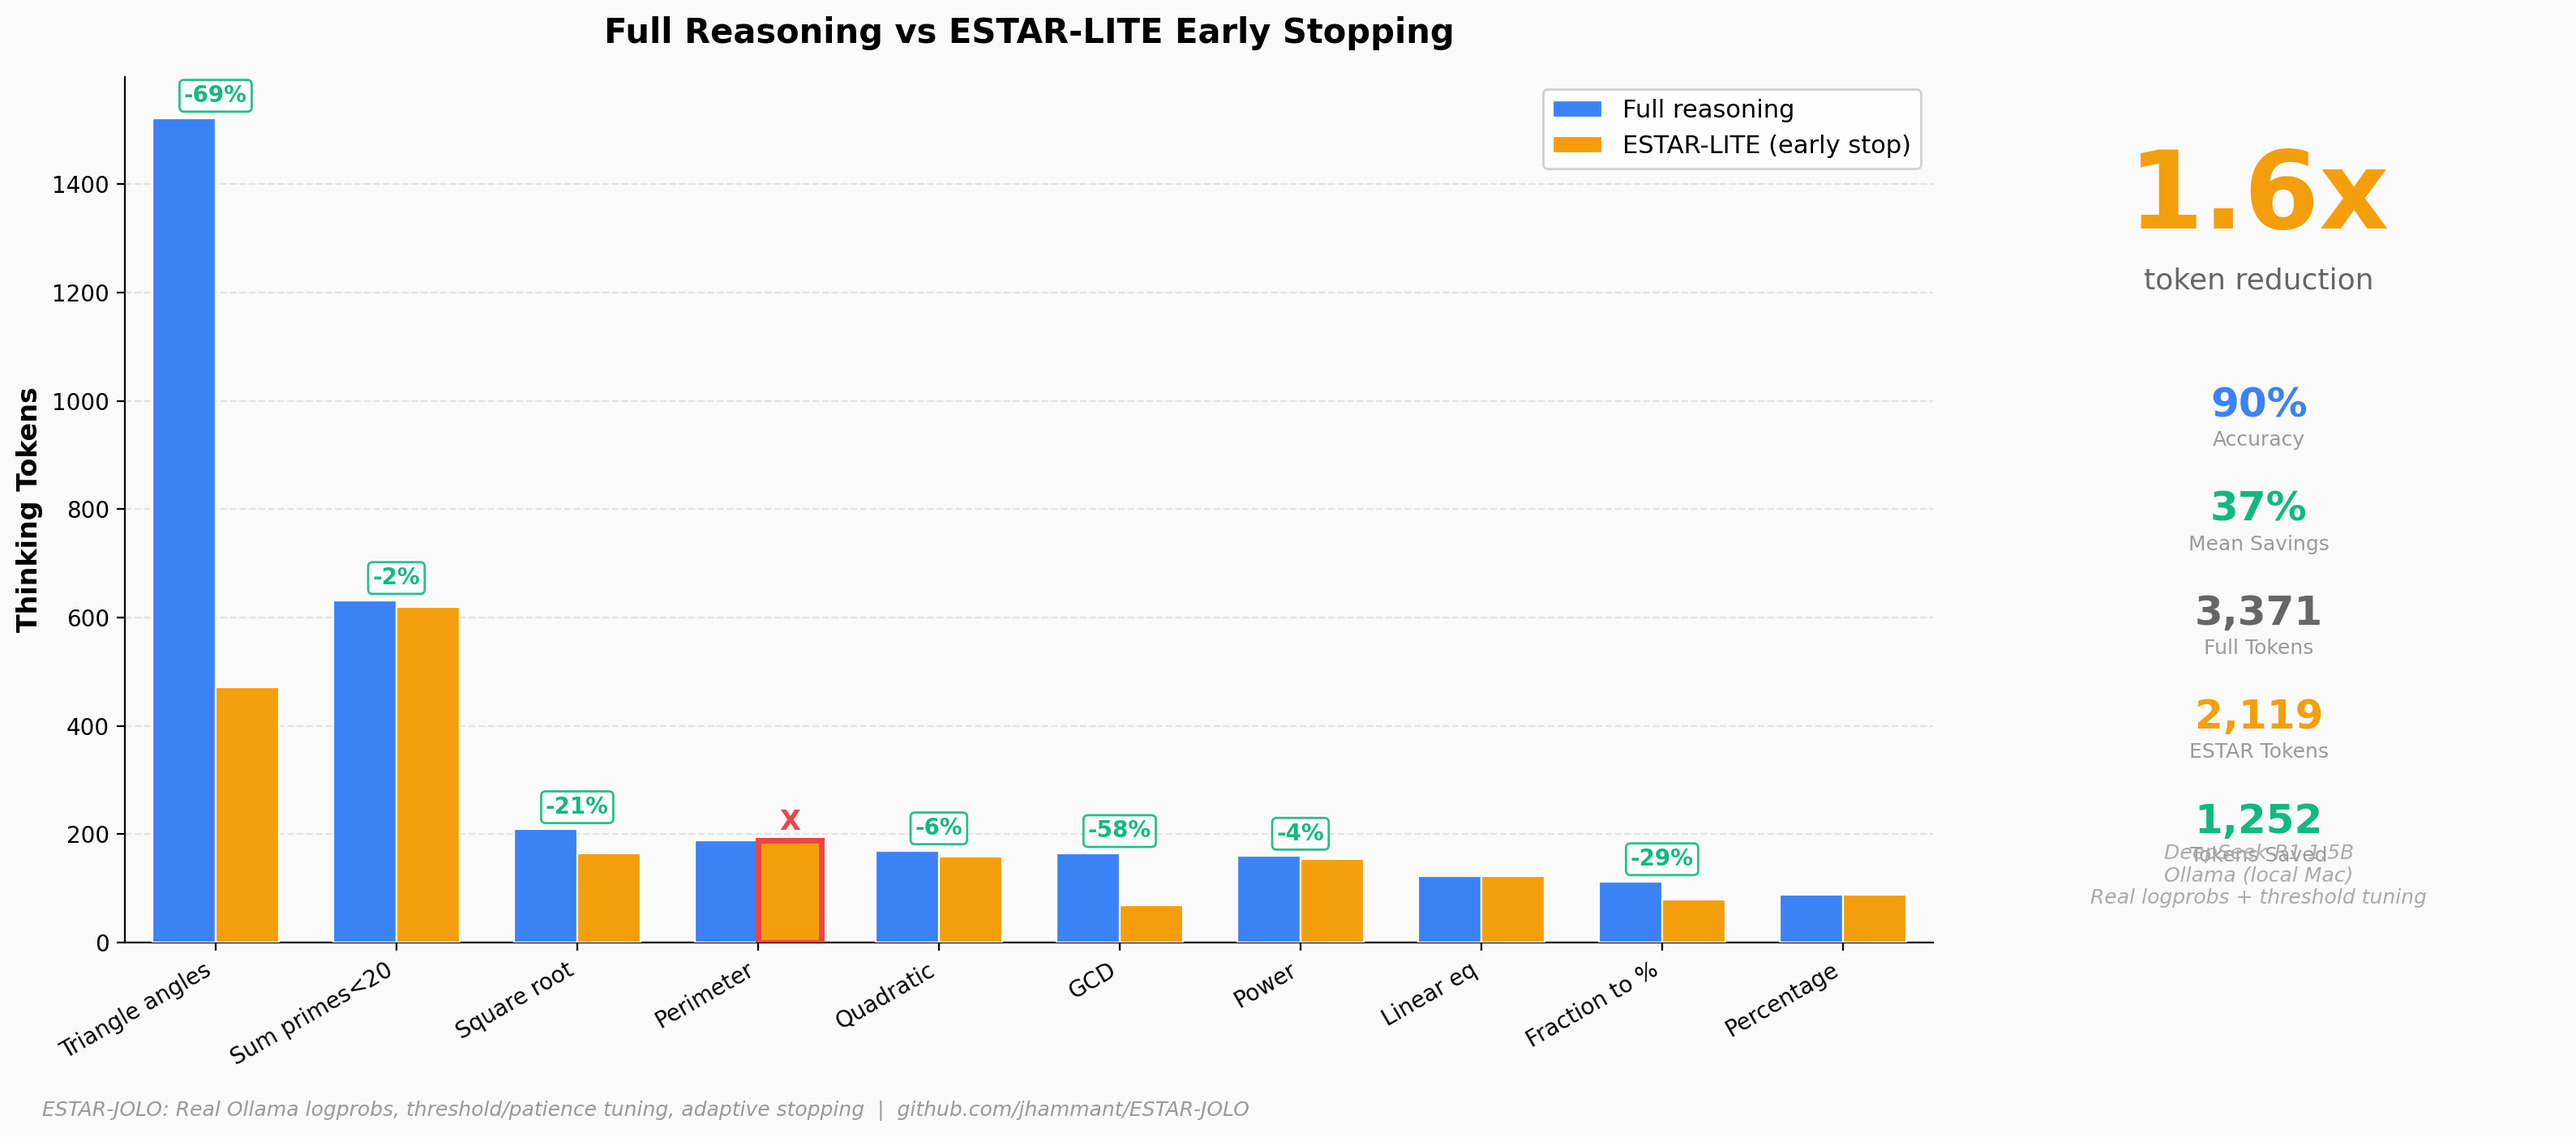
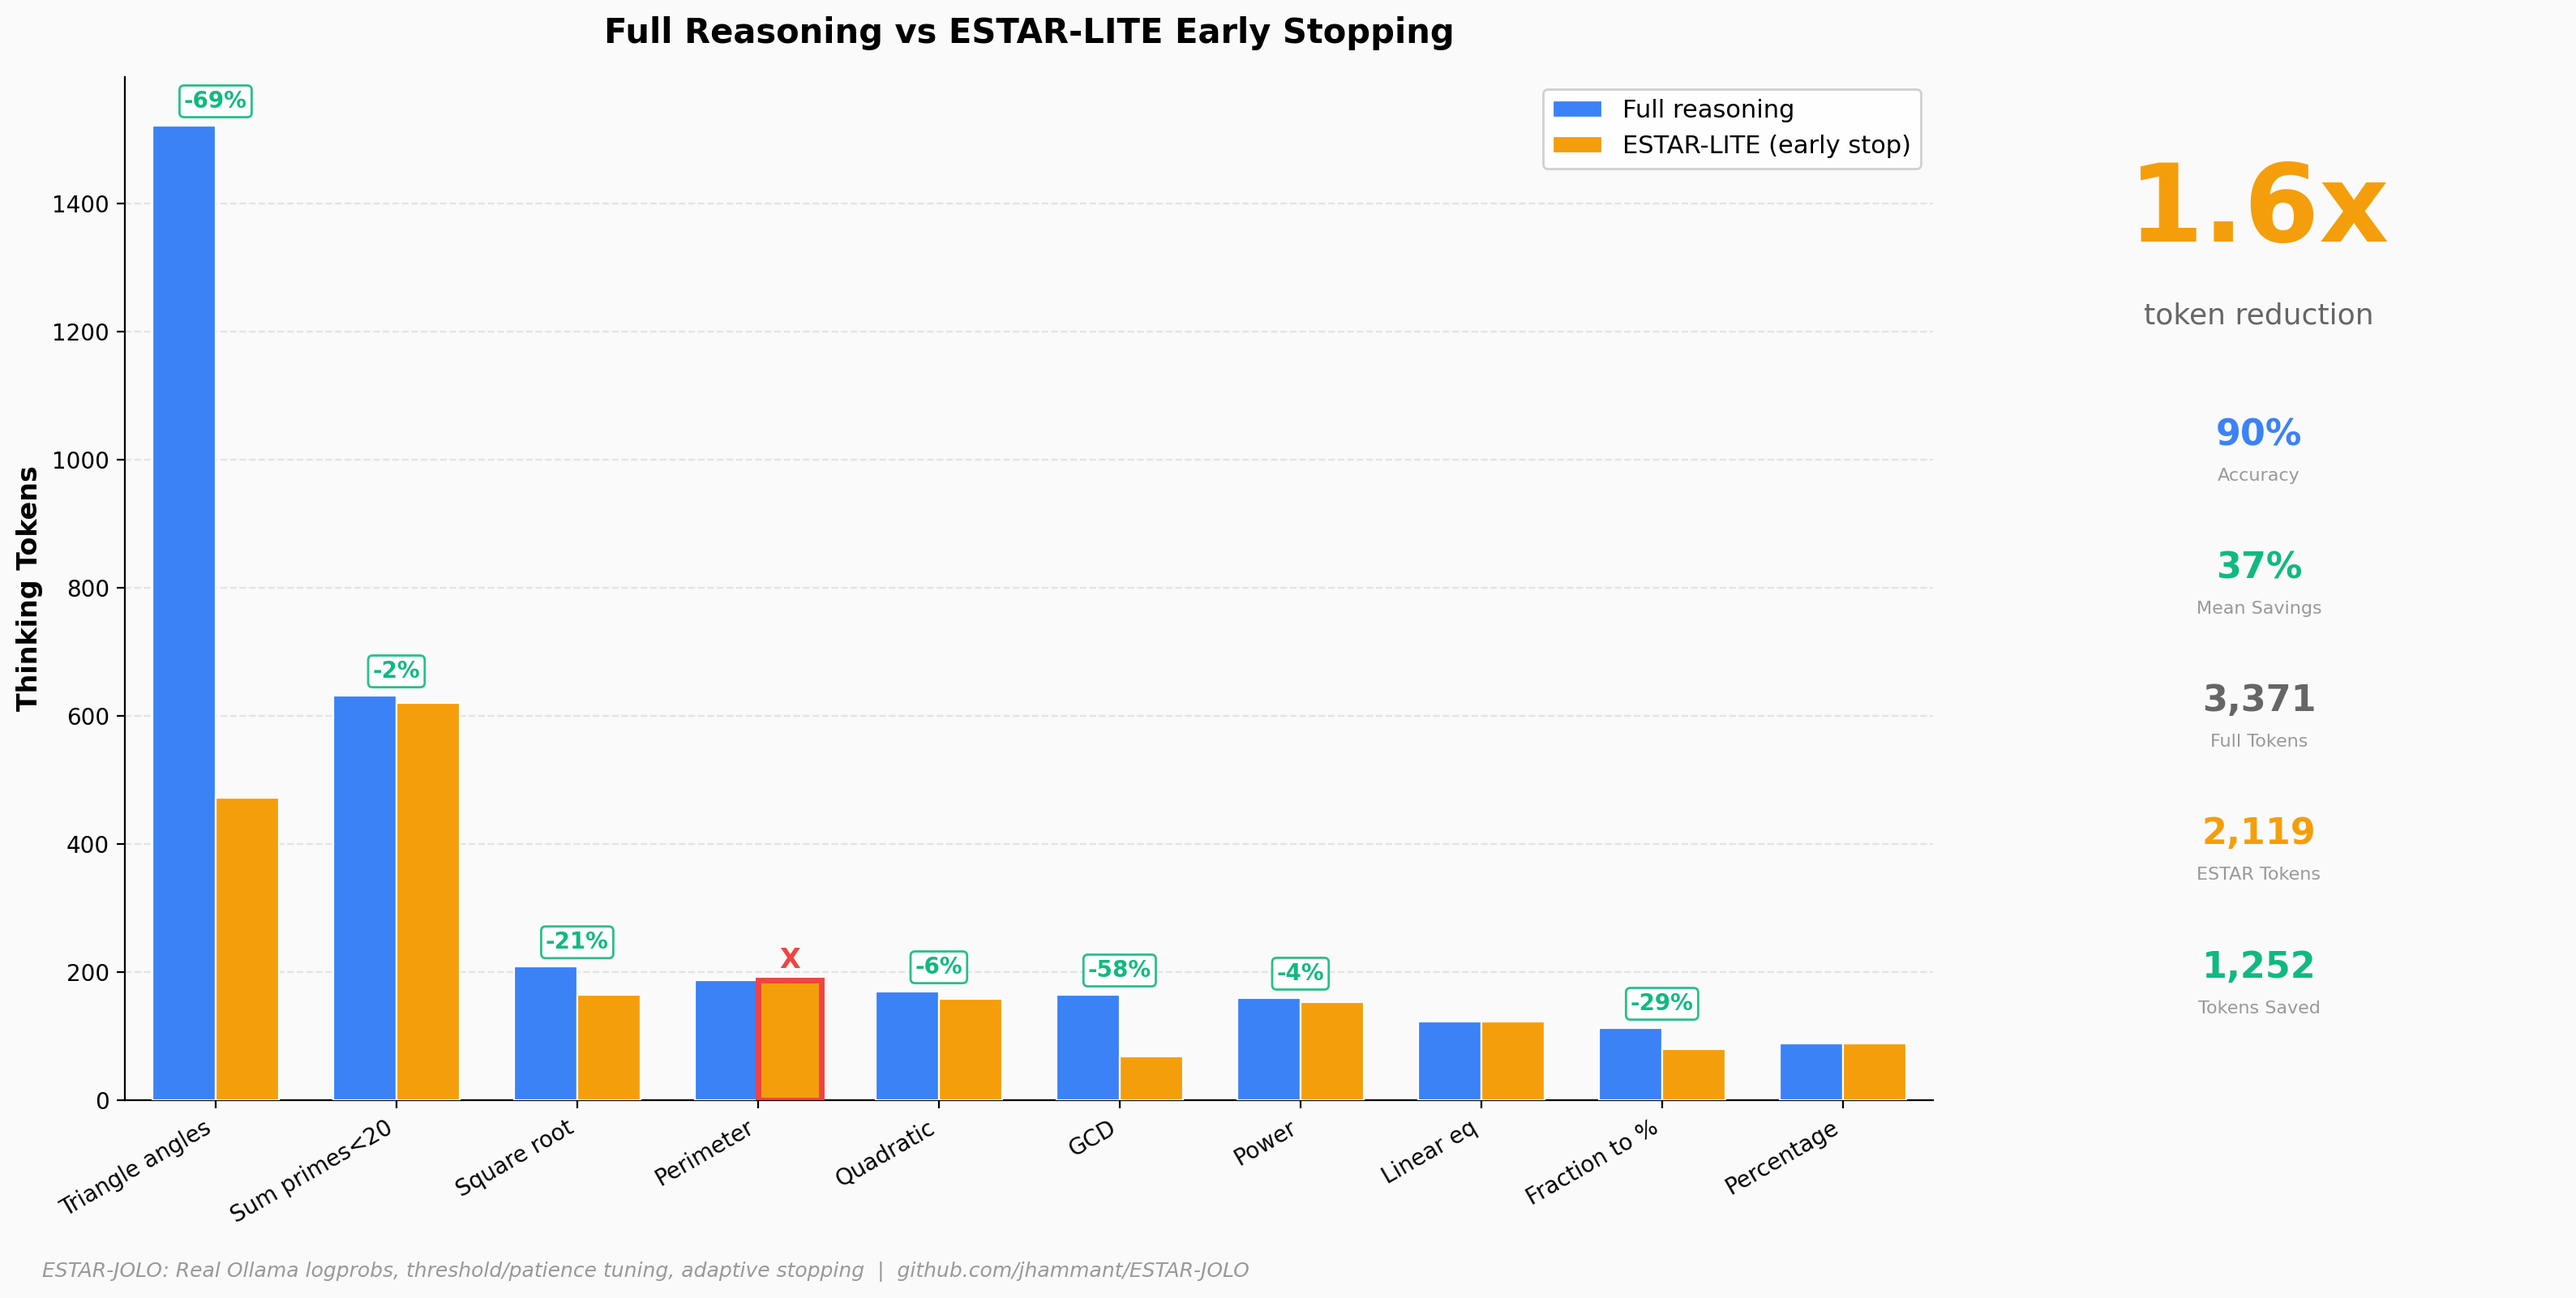
fix: resolve overlapping text in LinkedIn graph stats panel

diff --git a/scripts/make_linkedin_graph.py b/scripts/make_linkedin_graph.py
@@ -24,7 +24,7 @@ correct = [p["correct"] for p in problems_sorted]
 
 # ── Create the figure ──
 fig, (ax_main, ax_stats) = plt.subplots(
-    1, 2, figsize=(16, 7),
+    1, 2, figsize=(16, 8),
     gridspec_kw={"width_ratios": [3, 1]},
 )
 fig.patch.set_facecolor("#FAFAFA")
@@ -129,29 +129,19 @@ stats = [
 ]
 
 for i, (label, value, color) in enumerate(stats):
-    y = 0.62 - i * 0.12
+    y = 0.65 - i * 0.13
     ax_stats.text(
         0.5, y, value,
         transform=ax_stats.transAxes,
-        fontsize=18, fontweight="bold", color=color,
+        fontsize=16, fontweight="bold", color=color,
         ha="center", va="center",
     )
     ax_stats.text(
         0.5, y - 0.04, label,
         transform=ax_stats.transAxes,
-        fontsize=9, color="#999999",
+        fontsize=8, color="#999999",
         ha="center", va="center",
     )
-
-# Footer
-ax_stats.text(
-    0.5, 0.04,
-    "DeepSeek-R1 1.5B\nOllama (local Mac)\nReal logprobs + threshold tuning",
-    transform=ax_stats.transAxes,
-    fontsize=9, color="#AAAAAA",
-    ha="center", va="bottom",
-    style="italic",
-)
 
 # Subtitle
 fig.text(
